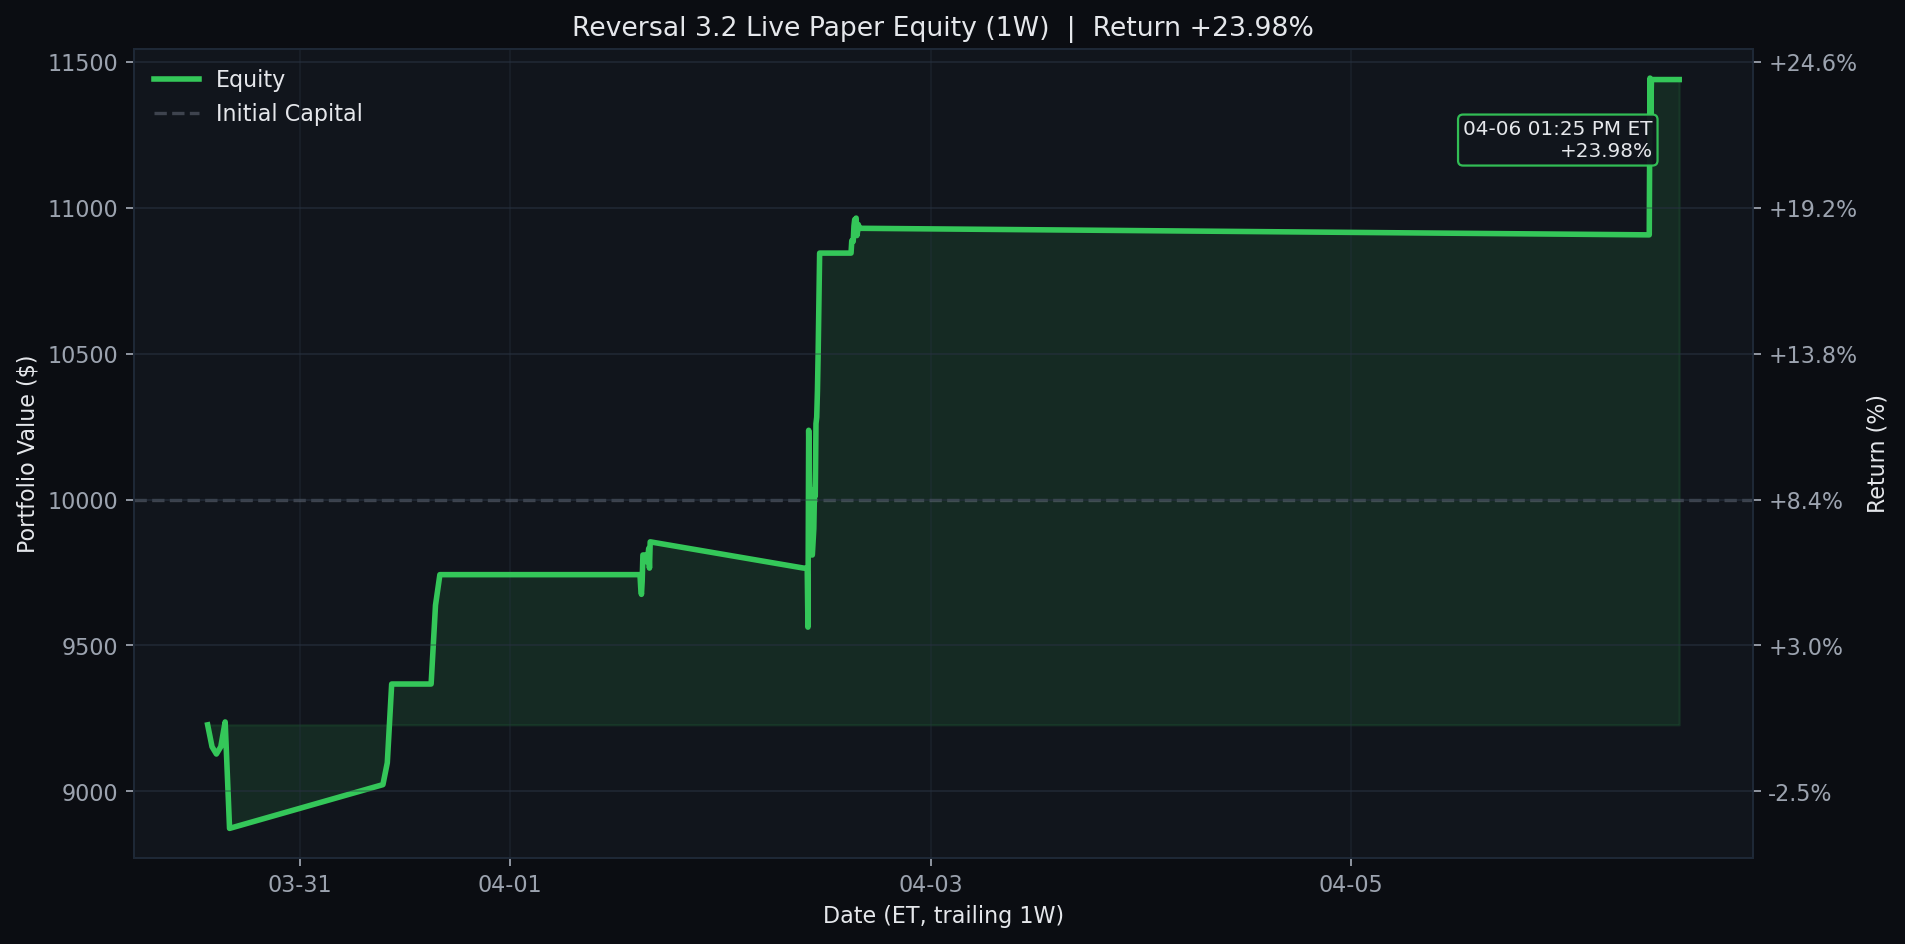
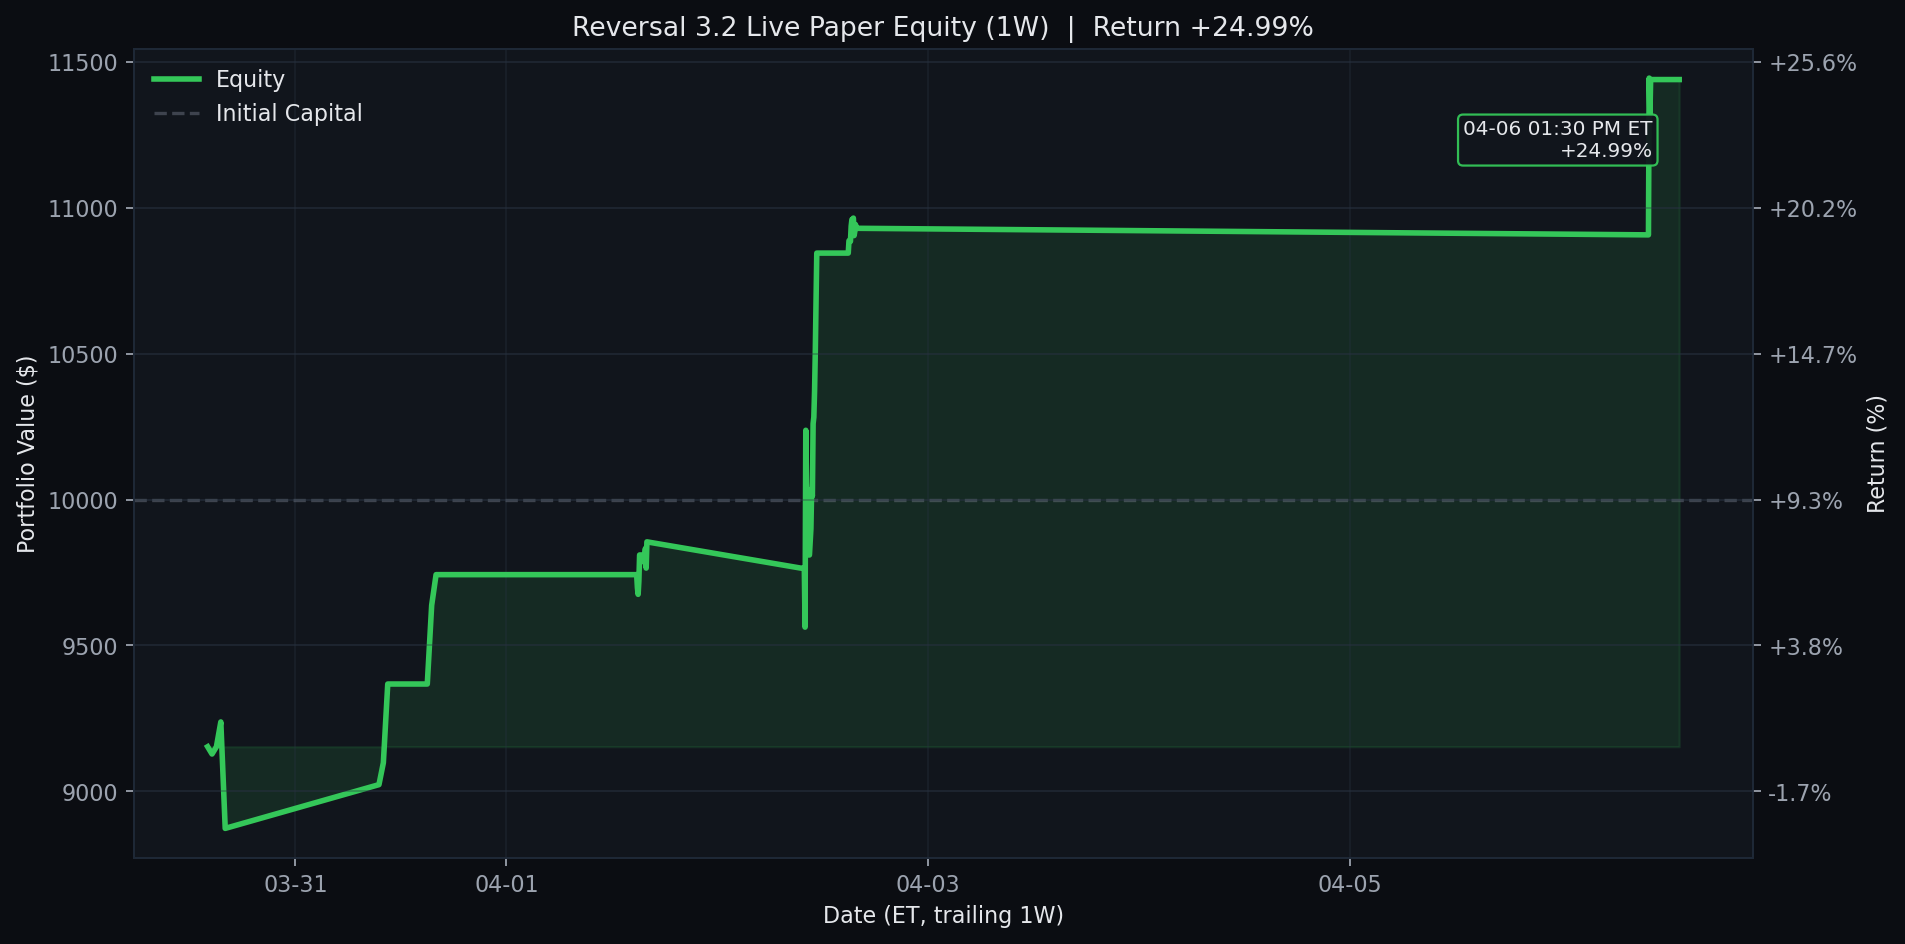
Update Reversal 3.2 live paper test 2026-04-06 13:30 ET

diff --git a/results/reversal_3_2_live/README.md b/results/reversal_3_2_live/README.md
@@ -1,6 +1,6 @@
 # Reversal 3.2 Live Paper Test
 
-Last updated (ET): `2026-04-06 13:25:05 EDT`
+Last updated (ET): `2026-04-06 13:30:05 EDT`
 Last processed slot: `manage_1330`
 
 ## Active Configuration
@@ -40,24 +40,25 @@ ticker    contract_symbol entry_trade_date_et exit_trade_date_et  entry_option_p
 
 ```text
 ticker  success_rate_%  matched_signals  current_drop_%  target_rebound_$  target_price  rolling_sigma_20d_%  call_candidate
-   HON          100.00               15            1.16              1.86        228.65                20.57            True
-  TSLA          100.00               13            3.48              8.77        356.83                42.35            True
- CMCSA           93.75               16            0.55              0.11         27.88                25.15            True
-  FAST           90.32               31            0.79              0.26         46.19                21.85            True
-  AVGO           89.74               39            0.69              1.53        313.90                41.04            True
-  PLTR           87.80               41            0.56              0.58        148.21                50.29            True
-  ASML           87.10               31            1.01              9.30       1313.25                51.28            True
-   LIN           86.67               15            0.91              3.20        501.23                19.40            True
-  CTSH           83.78               37            0.61              0.27         62.43                26.11            True
-  VRSK           83.72               43            0.53              0.69        184.79                33.36            True
-  DDOG           82.61               23            2.80              2.36        119.35                49.88            True
-  TMUS           82.35               17            1.19              1.67        200.68                22.45            True
+   HON          100.00               15            1.12              1.80        228.68                20.57            True
+ CMCSA           93.75               16            0.61              0.12         27.88                25.15            True
+  FAST           90.00               30            0.86              0.28         46.18                21.85            True
+  AVGO           89.74               39            0.66              1.45        313.93                41.04            True
+  PLTR           87.80               41            0.51              0.53        148.23                50.29            True
+  TSLA           87.50               16            3.23              8.15        357.10                42.35            True
+  ASML           87.10               31            0.92              8.44       1313.61                51.28            True
+   LIN           86.67               15            0.93              3.25        501.21                19.40            True
+   EXC           84.21               19            0.57              0.20         49.25                21.30            True
+  CTSH           83.78               37            0.59              0.26         62.43                26.11            True
+   PEP           83.33               18            0.71              0.78        156.67                18.34            True
+  TMUS           81.25               16            1.24              1.75        200.65                22.45            True
 ```
 
 ## Recent Events
 
 ```text
                     timestamp_et        slot   event_type                          detail
+2026-04-06T13:30:05.885486-04:00 manage_1330 slot_skipped {"reason": "already_processed"}
 2026-04-06T13:25:05.887688-04:00 manage_1330 slot_skipped {"reason": "already_processed"}
 2026-04-06T13:10:05.894755-04:00 manage_1300 slot_skipped {"reason": "already_processed"}
 2026-04-06T13:05:05.883688-04:00 manage_1300 slot_skipped {"reason": "already_processed"}
@@ -67,7 +68,6 @@ ticker  success_rate_%  matched_signals  current_drop_%  target_rebound_$  targe
 2026-04-06T12:35:05.882900-04:00 manage_1230 slot_skipped {"reason": "already_processed"}
 2026-04-06T12:30:05.890457-04:00 manage_1230 slot_skipped {"reason": "already_processed"}
 2026-04-06T12:25:05.881954-04:00 manage_1230 slot_skipped {"reason": "already_processed"}
-2026-04-06T12:10:05.895326-04:00 manage_1200 slot_skipped {"reason": "already_processed"}
 ```
 
 ## Equity Curves

diff --git a/README.md b/README.md
@@ -3,7 +3,7 @@
 <!-- reversal-3.2-live:start -->
 ## Reversal 3.2 Live Paper Test
 
-- Last updated (ET): `2026-04-06 13:25:05 EDT`
+- Last updated (ET): `2026-04-06 13:30:05 EDT`
 - Equity: `$11,440.00` | Realized: `$1,440.00` | Unrealized: `$0.00` | Open positions: `0`
 - Today closed trades: `1`
 - Current slot: `manage_1330`
